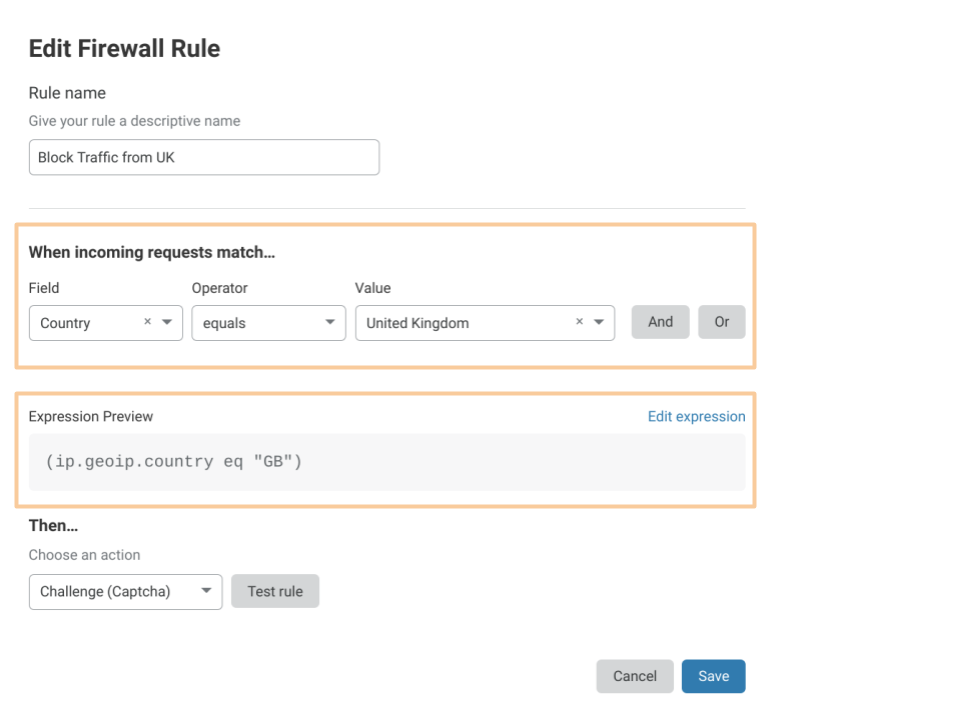
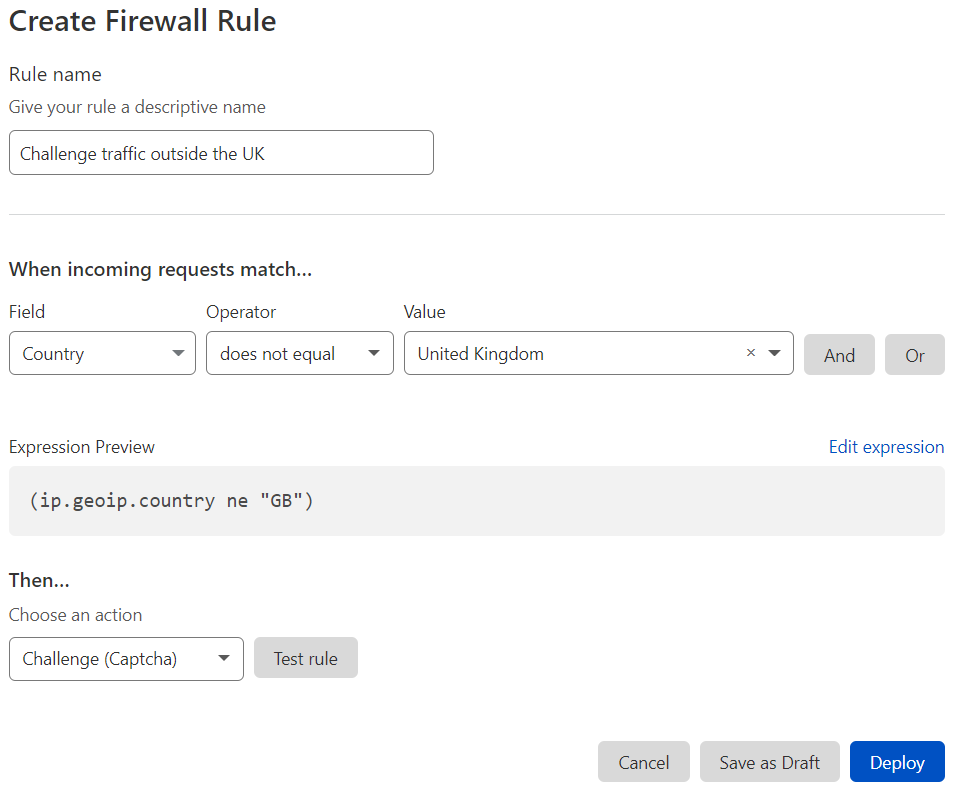
Fix Firewall expression example (#1972)

diff --git a/products/firewall/src/content/cf-firewall-rules/fields-and-expressions.md b/products/firewall/src/content/cf-firewall-rules/fields-and-expressions.md
@@ -47,7 +47,7 @@ This Expression Builder screenshot shows an expression for matching requests tha
 Notice how the **Expression Preview** displays the expression in text:
 
 ```sql
-ip.geoip.country ne "GB"
+(ip.geoip.country ne "GB")
 ```
 
 In this example, `ip.geoip.country` represents the country associated with the requesting client’s IP address, and the value `"GB"` represents the country code to match. The `ne` notation between them represents the _not equal_ comparison operator. Together, the expression specifies a match for any request with a country field value other than `GB`.
@@ -80,7 +80,7 @@ To match only external requests for content, use the `and` operator, as in this 
 http.referer ne ".example.com" and http.request.uri.path eq "/content/"
 ```
 
-Compound expressions only matches requests that satisfy each of the simple expressions within. That is because the logical `and` operator requires that both operands be true for the compound expression to return `true`.
+Compound expressions only match requests that satisfy each of the simple expressions within. That is because the logical `and` operator requires that both operands be true for the compound expression to return `true`.
 
 In general, compound expressions use this pattern:
 
